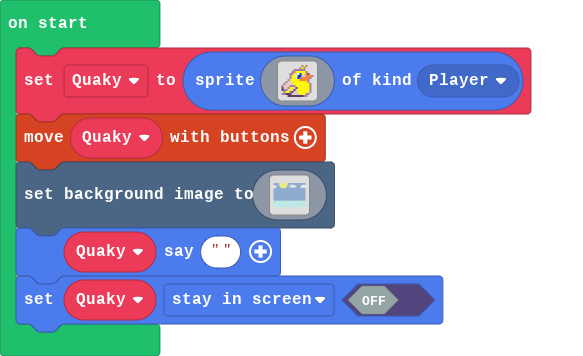
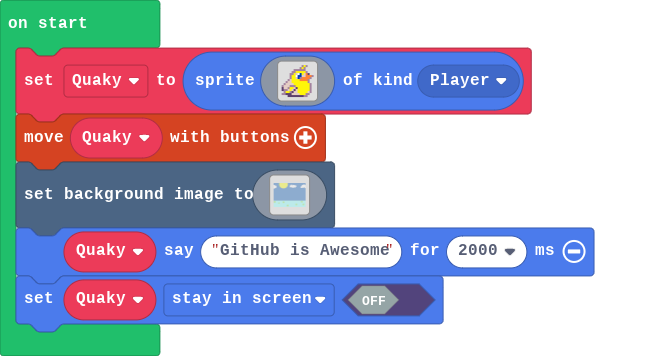
Quaky can talk

diff --git a/main.ts b/main.ts
@@ -139,5 +139,5 @@ scene.setBackgroundImage(img`
     9999999999999999999999999999999999999999999999999999999999999999999999999999999999999999999999999999999999999999999999999999999999999999999999999999999999999999
     9999999999999999999999999999999999999999999999999999999999999999999999999999999999999999999999999999999999999999999999999999999999999999999999999999999999999999
     `)
-Quaky.say("")
+Quaky.say("GitHub is Awesome", 2000)
 Quaky.setFlag(SpriteFlag.StayInScreen, false)
